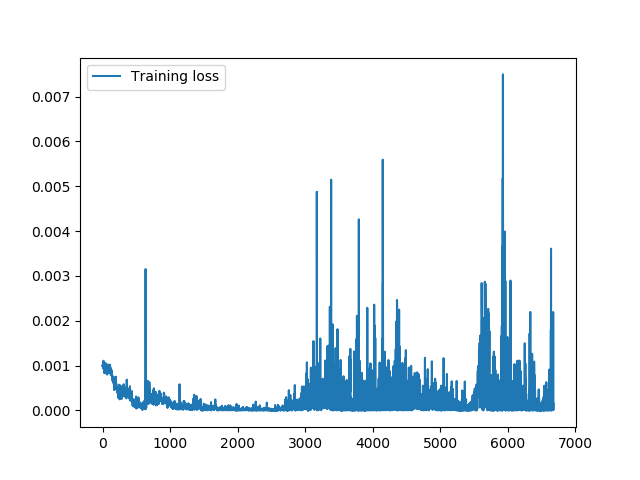
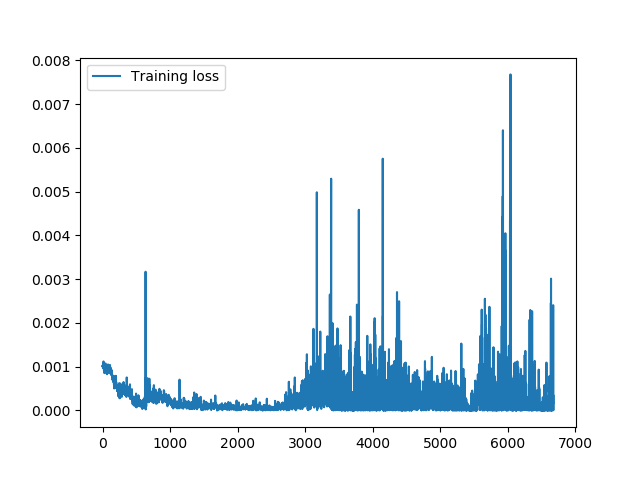
works now sorta

diff --git a/run_test.py b/run_test.py
@@ -6,9 +6,9 @@ from core.evaluating import *
 from plots.plots import *
 
 dataset = DataLoader('DJI.csv', 0.77, ['Adj Close', 'Volume'], 'Adj Close', True)
-
-train_dt = dataset.get_train_data(51)
-test_dt = dataset.get_test_data(51)
+timesteps = 50
+train_dt = dataset.get_train_data(timesteps)
+test_dt = dataset.get_test_data(timesteps)
 
 
 # Parameters
@@ -25,25 +25,26 @@ test_set = Dataset(test_dt)
 test_generator = data.DataLoader(test_set, **dataloader_params)
 
 network_params = {'input_dim': 2,  # As many as there are of columns in data
-                  'hidden_dim': 1,
+                  'hidden_dim': 10,
                   'batch_size': dataloader_params['batch_size'],  # From dataloader_parameters
                   'output_dim': 1,
                   'dropout': 0,
                   'num_layers': 1
                   }
-
+epochs = 10
 Nice_model = Model(**network_params)
 Nice_loss = torch.nn.MSELoss()
 Nice_optimiser = torch.optim.Adam(Nice_model.parameters(), lr=0.005)
+Nice_scheduler = torch.optim.lr_scheduler.CosineAnnealingLR(Nice_optimiser,epochs)
 
-Nice_model_trained, loss_train, loss_test = train_model(Nice_model, Nice_loss, Nice_optimiser, 1,training_generator,
-                                                       test_generator, 50, 1)
+Nice_model_trained, loss_train, loss_test = train_model(Nice_model, Nice_loss, Nice_optimiser,Nice_scheduler ,epochs,training_generator,
+                                                       test_generator, timesteps, 1)
 
-ys, ys_testing, loss_vals_test,loss_vals_train = eval_model(Nice_model_trained,Nice_loss, train_dt,test_dt,50)
+ys, ys_testing, loss_vals_test,loss_vals_train = eval_model(Nice_model_trained,Nice_loss, train_dt,test_dt,timesteps)
 
 y_trainingm8= train_dt[1]
 y_testingm8 = test_dt[1]
 
 plot_and_save(ys,ys_testing,y_trainingm8, y_testingm8, loss_vals_train, loss_vals_test, False, Nice_model_trained,
-              'Nice_model')
+              'Nice_model_with_LRANNEAL_hidden_dim10')
 

diff --git a/core/training.py b/core/training.py
@@ -3,7 +3,7 @@ import numpy as np
 from torch.backends import cudnn
 
 
-def train_model(model, loss, optimiser, epochs, train_gen, test_gen,
+def train_model(model, loss, optimiser, scheduler ,epochs, train_gen, test_gen,
                 timesteps, batch_size):
     ######## CUDA for PyTorch
     use_cuda = torch.cuda.is_available()
@@ -12,9 +12,10 @@ def train_model(model, loss, optimiser, epochs, train_gen, test_gen,
 
     model = model
     if torch.cuda.is_available():
+        print("We're running on GPU")
         model.cuda()
     #######
-
+    scheduler = scheduler
     optimiser = optimiser
     loss_fn = loss
 
@@ -49,7 +50,10 @@ def train_model(model, loss, optimiser, epochs, train_gen, test_gen,
             loss.backward()
 
             optimiser.step()
+
             batch_nr += 1
+        if scheduler is not None:
+            scheduler.step()
 
         batch_nr = 0
         for batch, labels in test_gen:
@@ -57,7 +61,6 @@ def train_model(model, loss, optimiser, epochs, train_gen, test_gen,
             labels = labels.float()
             # Transfer to GPU
             batch, labels = batch.to(device), labels.to(device)
-
             optimiser.zero_grad()
 
             y_pred_test = model(batch)

diff --git a/core/dataloader.py b/core/dataloader.py
@@ -34,6 +34,7 @@ class DataLoader():
         '''
         Seq_len: total length, ie. the last gets to be the label
         '''
+        seq_len += 1
         data_x = []
         data_y = []
         for i in range(self.len_train - seq_len):
@@ -46,6 +47,7 @@ class DataLoader():
         '''
         Seq_len: total length, ie. the last gets to be the label
         '''
+        seq_len += 1
         data_x = []
         data_y = []
         for i in range(self.len_test - seq_len):

diff --git a/plots/plots.py b/plots/plots.py
@@ -37,6 +37,8 @@ def plot_and_save(pred_train, pred_test, label_train, label_test, train_error, t
 
         save_path = path_create + '/' + 'model.pt'
         torch.save(trained_model.state_dict(), save_path)
+        with open(path_create+'/model_summary.txt', 'w+') as f:
+            f.write(str(trained_model))  # Python 3.x
         print("Model Saved")
 
     plt.plot(pred_train, label="Predictions on train set")
